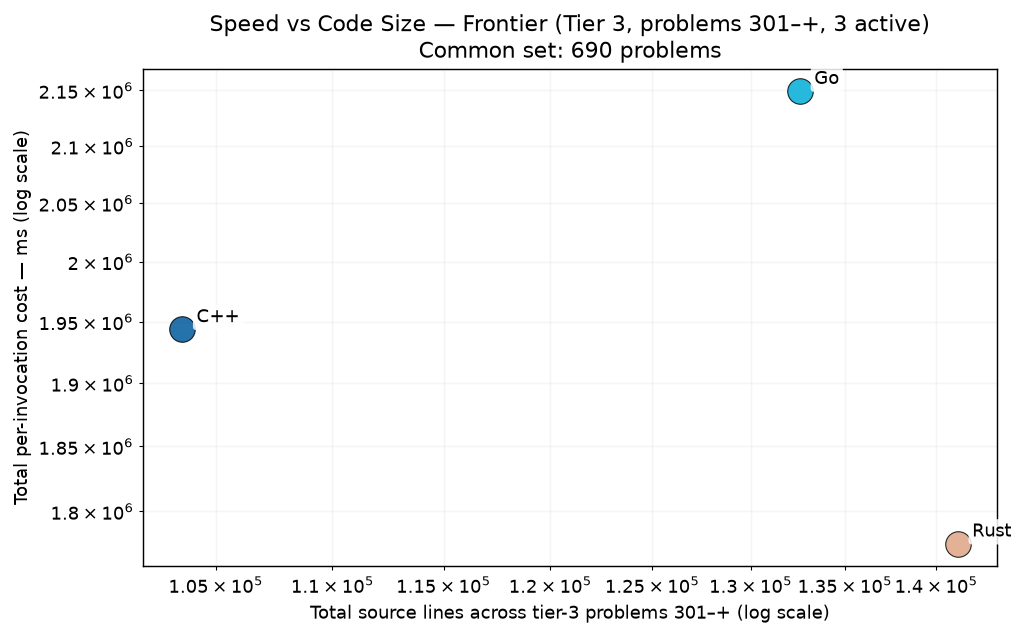
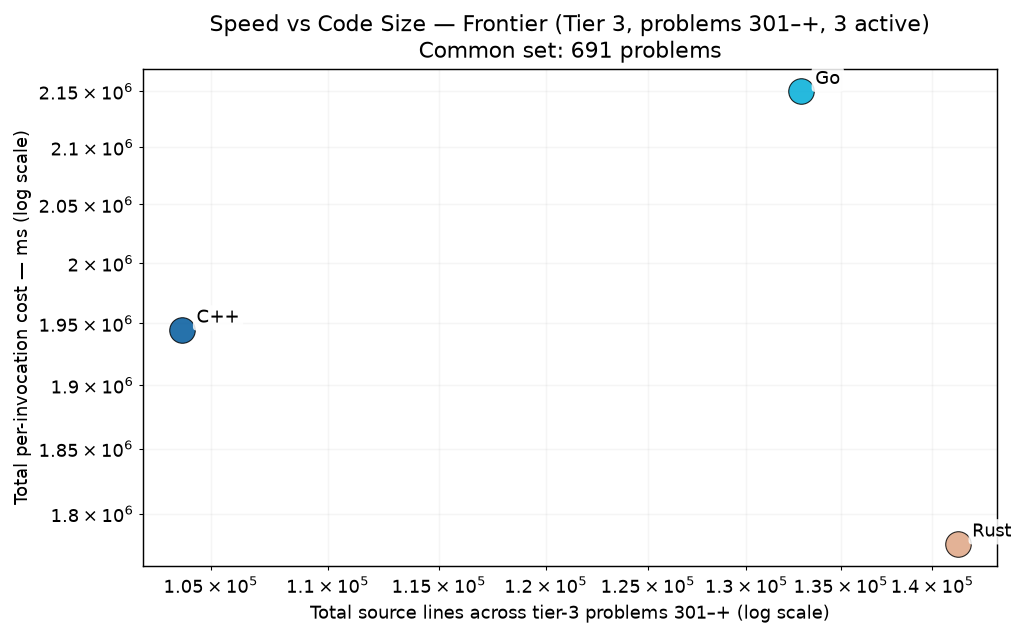
cpp p0962

diff --git a/RESULTS.md b/RESULTS.md
@@ -1,6 +1,6 @@
 # Project Euler — Cross-Language Benchmarks
 
-> **Scope: 4521 in-scope cells across 1007 problems × tiered languages — 4484 measured (99.2% coverage).**
+> **Scope: 4521 in-scope cells across 1007 problems × tiered languages — 4485 measured (99.2% coverage).**
 > The cross-language ranking below is computed over the **200-problem common set** (problems in 1-200 where every language has a passing measurement) — the apples-to-apples Foundation comparison surface.  Per-tier rankings and coverage detail appear further below.
 > Growing carefully — each new problem and language is audited for state-leak
 > safety, verified for answer correctness, and added only when it cleanly fits the
@@ -70,15 +70,15 @@ Same scatter as the Foundation chart, restricted to the tier-2 active languages 
 
 The frontier verification trio — C++, Go, Rust — on problems above 300. 3-way cross-language agreement is the verification protocol (strictly stronger than 2-way; see JOURNEY.md "Tier Reframing" episode for the p254 lesson that motivated it). Python and Zig are explicitly out of this tier — python's wall cost makes it impractical at level 5+, and zig's role caps at Tier 2.
 
-### Per-Invocation Cost (Common Set, 690 of ≤707 problems in scope)
+### Per-Invocation Cost (Common Set, 691 of ≤707 problems in scope)
 
 ![Per-Invocation Cost — Tier 3](charts/per_iter_total_tier3.png)
 
-| Rank | Language | Geomean (690-problem common set) | Total (sum) | Lines of code | vs Fastest |
+| Rank | Language | Geomean (691-problem common set) | Total (sum) | Lines of code | vs Fastest |
 |------|----------|--------------------:|------------:|--------------:|-----------:|
-| 1 | **Rust** | 76.84 ms | 1775.54 s | 141,213 | 1.00× |
-| 2 | **C++** | 80.02 ms | 1943.62 s | 103,588 | 1.04× |
-| 3 | **Go** | 89.68 ms | 2149.22 s | 132,582 | 1.17× |
+| 1 | **Rust** | 77.19 ms | 1777.39 s | 141,431 | 1.00× |
+| 2 | **C++** | 80.32 ms | 1944.69 s | 103,796 | 1.04× |
+| 3 | **Go** | 89.96 ms | 2149.96 s | 132,850 | 1.17× |
 
 ### Speed vs Code Size
 
@@ -264,7 +264,7 @@ table never silently mixes versions (METHODOLOGY.md §4).  Current state of the
 |----------|-----------|------:|---------------|
 | **ARM64** | `Apple clang version 21.0.0 (clang-2100.1.1.101)` | 200 | 2026-07-30 |
 | **C** | `Apple clang version 21.0.0 (clang-2100.1.1.101)` | 200 | 2026-07-30 |
-| **C++** | `Apple clang version 21.0.0 (clang-2100.1.1.101)` | 990 | 2026-09-08 |
+| **C++** | `Apple clang version 21.0.0 (clang-2100.1.1.101)` | 991 | 2026-09-08 |
 | **C#** | `10.0.101` | 200 | 2026-07-30 |
 | **Go** | `go version go1.26.5 darwin/arm64` | 992 | 2026-09-08 |
 | **Java** | `openjdk version "21.0.2" 2024-01-16 LTS` | 200 | 2026-07-30 |

diff --git a/per_problem/per_problem_0901-1000.md b/per_problem/per_problem_0901-1000.md
@@ -69,7 +69,7 @@ in tier-1 display order (native → managed → interpreted).
 | **p0959** | 16.8 µs~ | 84.5 µs | 20.8 µs |
 | **p0960** | 1.13 ms | 231.5 µs | 7.3 µs |
 | **p0961** | 5.73 ms | 2.17 ms | 6.97 ms |
-| **p0962** | — | 1.85 s | 744.08 ms |
+| **p0962** | 1.07 s | 1.85 s | 744.08 ms |
 | **p0963** | — | 45.29 ms | — |
 | **p0964** | — | 1.28 ms | — |
 | **p0965** | 233.52 ms | 411.01 ms | 341.18 ms |
